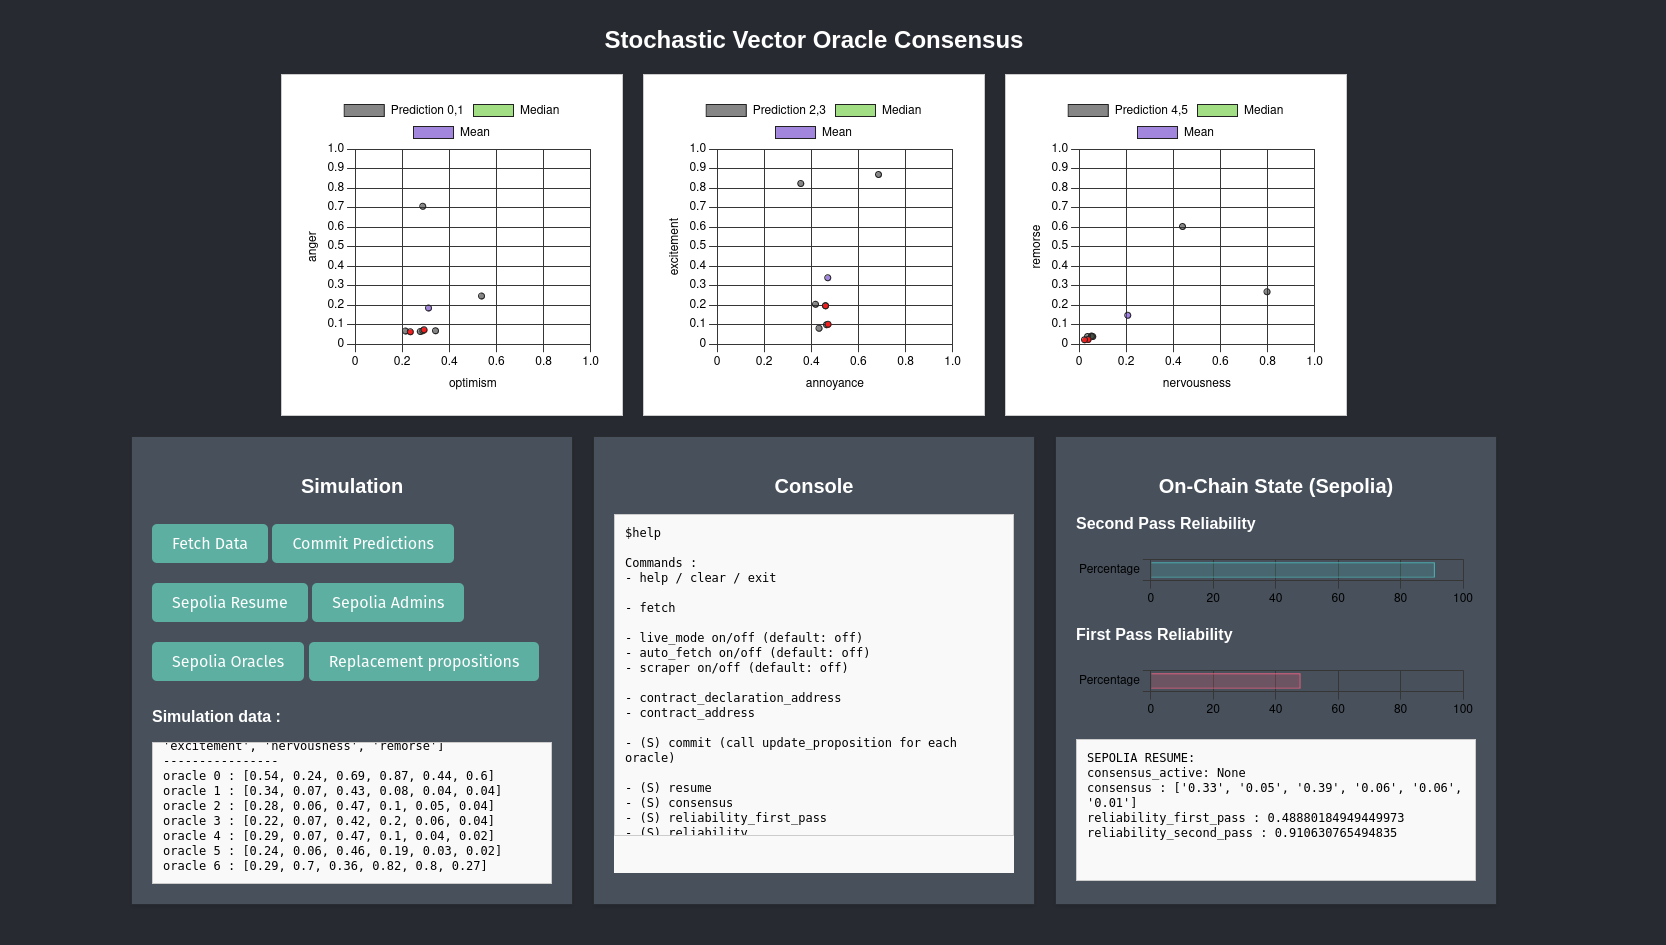
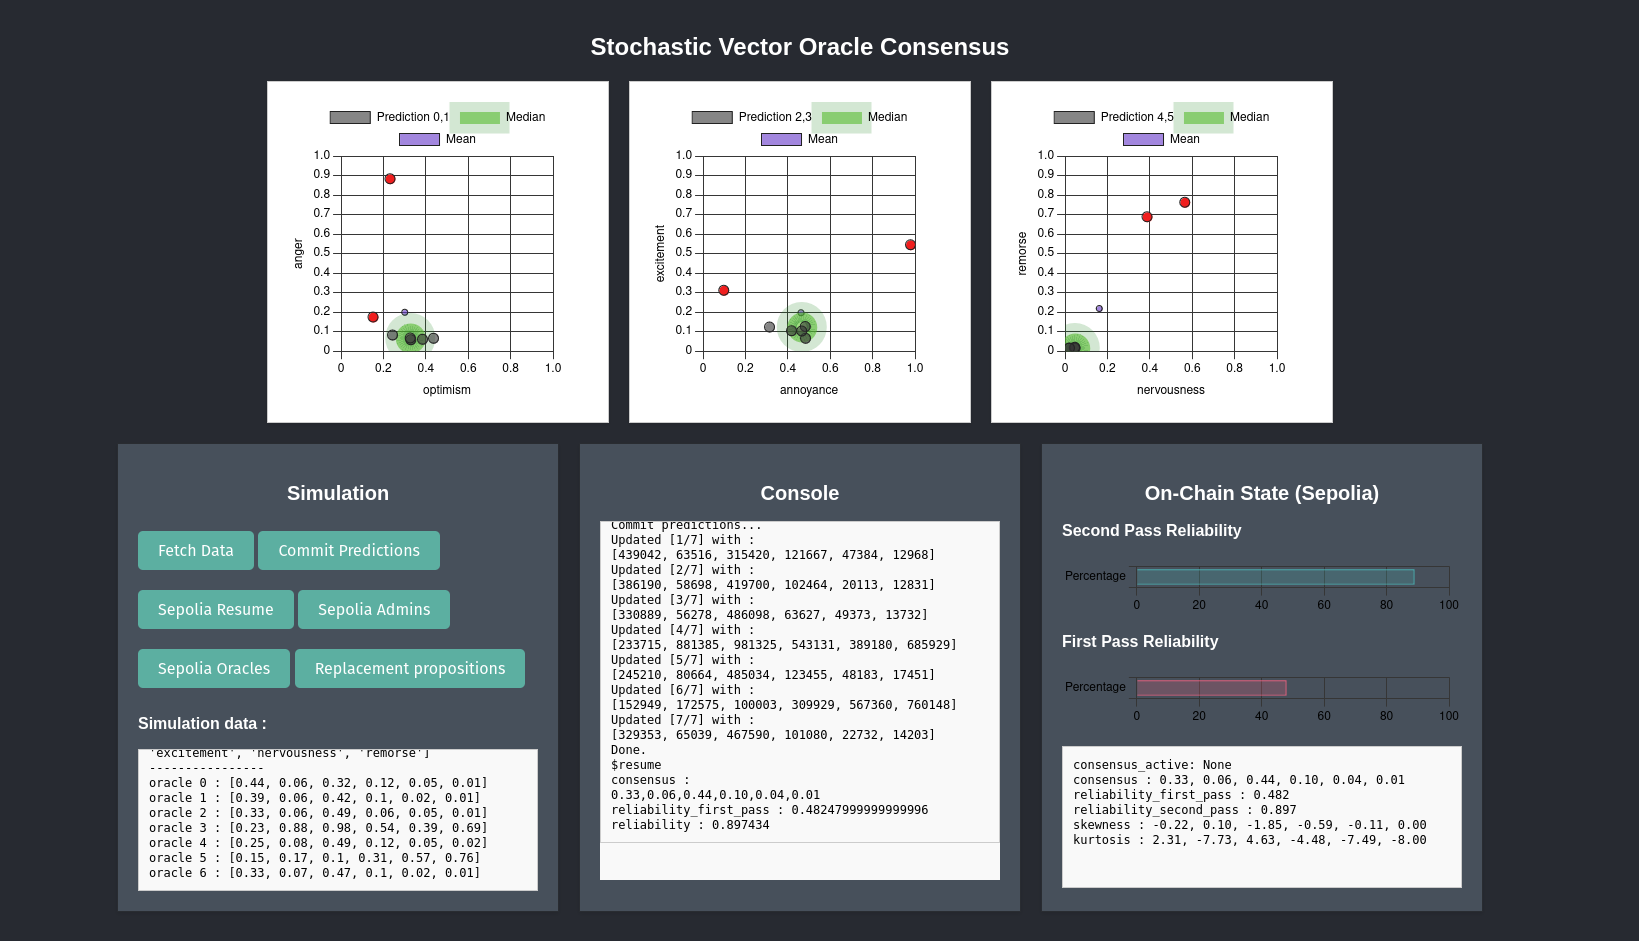
fixed interface

Changed region(s): [[0.0622, 0.0308, 0.9024, 0.9862]]

diff --git a/oracle_client/web/scripts/simulation_graphics.js b/oracle_client/web/scripts/simulation_graphics.js
@@ -23,15 +23,17 @@ function initComponents(dimension) {
                 datasets: [{
                     label: `Prediction ${i*2},${i*2 + 1}`,
                     data: [], // Initial empty data
-                    backgroundColor: 'rgba(54, 54, 54, 0.6)',  // Dark gray background
+                    backgroundColor: ['rgba(54, 54, 54, 0.6)'],  // Dark gray background
                     borderColor: 'rgba(34, 34, 34, 1)',        // Even darker border
-                    borderWidth: 1
+                    borderWidth: 1,
+                    pointRadius: 5
                 }, {
                     label: "Median",
                     data: [], // Initial empty data
                     backgroundColor: 'rgba(100, 200, 50, 0.6)',  // Dark gray background
-                    borderColor: 'rgba(34, 34, 34, 1)',        // Even darker border
-                    borderWidth: 1
+                    borderColor: 'rgba(34, 134, 34, 0.2)',        // Even darker border
+                    borderWidth: 20,
+                    pointRadius: 15
                 }, {
                     label: "Mean",
                     data: [], // Initial empty data

diff --git a/oracle_client/oracle_scheduler.py b/oracle_client/oracle_scheduler.py
@@ -91,12 +91,23 @@ def gen_oracles_predictions(sentiment_analysis : List[np.array]) -> List[np.arra
 
     return oracles_values
 
+def rank_array(list : List[float]) -> List[float] :
+    '''
+        Takes a list of values.
+        Replace them with a deviation score (the highest the best).
+    '''
+    s = np.argsort(list)
+    rev_indexes = [0 for i in range(len(s))]
+    for from_idx, to_idx in enumerate(s):
+        rev_indexes[to_idx] = s.size - from_idx - 1 
+    return np.array(rev_indexes) / (s.size - 1)
+
 def predictions_to_eel_values(oracles_predictions : List[np.array]):
     mean = np.mean(oracles_predictions, axis=0)
     median = np.median(oracles_predictions, axis=0)
+
     deviation_from_median = [np.linalg.norm(pred - median) for pred in oracles_predictions]
-    ranks = np.argsort(deviation_from_median)
-    normalized_ranks = ranks / (len(oracles_predictions) - 1)
+    normalized_ranks = rank_array(deviation_from_median)
 
     component = []
     for i in range(0, DIMENSION, 2) :
